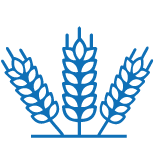
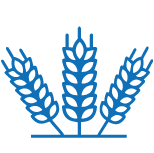
ver-4.0.2
se modifica la imagen de idgk de fondo

Changed region(s): [[0.4156, 0.2614, 0.6234, 0.7843], [0.6494, 0.3922, 0.961, 0.8105], [0.0519, 0.3922, 0.3896, 0.8105]]

diff --git a/molinosgrupokasto/style_1/gallery_5.html b/molinosgrupokasto/style_1/gallery_5.html
@@ -177,7 +177,7 @@
 											<figure>
 												<img src="../img/blank.gif" style="background-image: url('../img/gall_img/masonry/harina_4.jpg');" alt="demo" />
 
-												<a class="gallery__item__description" href="../img/gall_img/masonry/semifuerte.mp4" data-gallery="gall">
+												<a class="gallery__item__description" href="https://www.youtube.com/embed/QRkrCHG4Yso" data-gallery="gall">
 													<span class="gallery__item__title" style="transform: rotate(-90deg);">
 														<div class="video_button">
 															<i class='fas fa-play'></i>
@@ -367,7 +367,7 @@
 											<figure>
 												<img src="../img/blank.gif" style="background-image: url('../img/gall_img/masonry/harina_16.jpg');" alt="demo" />
 
-												<a class="gallery__item__description" href="../img/gall_img/masonry/harina_16.jpg" data-gallery="gall">
+												<a class="gallery__item__description" href="https://www.youtube.com/embed/CGYhMkinKvU" data-gallery="gall">
 													<span class="gallery__item__title" style="transform: rotate(-90deg);">
 														<div class="video_button">
 															<i class='fas fa-play'></i>
@@ -394,7 +394,6 @@
 									</div>
 								</div>
 								<!-- end item -->
-
 								<!-- start item -->
 								<div class="col-12 col-md-6 col-lg-6  js-isotope__item category-3">
 									<div class="gallery__item" data-x="2" data-y="1">
@@ -402,7 +401,12 @@
 											<figure>
 												<img src="../img/blank.gif" style="background-image: url('../img/gall_img/masonry/sa_18.jpg');" alt="demo" />
 
-												<a class="gallery__item__description" href="../img/gall_img/masonry/sa_18.jpg" data-gallery="gall">
+												<a class="gallery__item__description" href="https://www.youtube.com/embed/5ZqaS1Q4J8w" data-gallery="gall">
+													<span class="gallery__item__title" style="transform: rotate(-90deg);">
+														<div class="video_button">
+															<i class='fas fa-play'></i>
+														</div>
+													</span>
 												</a>
 											</figure>
 										</div>
@@ -417,7 +421,7 @@
 											<figure>
 												<img src="../img/blank.gif" style="background-image: url('../img/gall_img/masonry/harina_19.jpg');" alt="demo" />
 
-												<a class="gallery__item__description" href="../img/gall_img/masonry/harina_19.jpg" data-gallery="gall">
+												<a class="gallery__item__description" href="https://www.youtube.com/embed/Pc48w72qqBM" data-gallery="gall">
 													<span class="gallery__item__title" style="transform: rotate(-90deg);">
 														<div class="video_button">
 															<i class='fas fa-play'></i>

diff --git a/molinosgrupokasto/style_1/index.html b/molinosgrupokasto/style_1/index.html
@@ -15,7 +15,7 @@
 
 		<!-- Favicons
 		================================================== -->
-		<link rel="shortcut icon" href="http://molinosgrupokasto.com/wp-content/themes/theme1872/favicon.ico">
+		<link rel="shortcut icon" href="../img/logobal-1.png">
 		<link rel="apple-touch-icon" href="img/apple-touch-icon.png">
 		<link rel="apple-touch-icon" sizes="72x72" href="img/apple-touch-icon-72x72.png">
 		<link rel="apple-touch-icon" sizes="114x114" href="img/apple-touch-icon-114x114.png">
@@ -94,6 +94,7 @@
 						<li><a class="fontello-facebook" href="https://www.facebook.com/grupokastomolinos" target="_blank"></a></li>
 						<li><a class="fontello-instagram" href="https://www.instagram.com/grupokasto/" target="_blank"></a></li>
 						<li><a class="fontello-whatsapp" href="#" target="_blank"></a></li>
+						<li><a class="fontello-youtube-play" href="https://www.youtube.com/channel/UC70Tcn_A9v6-M3_-XnrXLcQ" target="_blank"></a></li>
 						<li class="li-btn"><a class="custom-btn primary" href="#">Mi cuenta</a></li>
 					</ul>
 				</nav>
@@ -886,7 +887,7 @@
 												<img src="../img/blank.gif" style="background-image: url('../img/home_img/inicio/pagina8.png');" alt="demo" />
 
 												<a class="gallery__item__description" href="../img/home_img/inicio/pagina8.png" data-gallery="gall">
-													<span class="gallery__item__title cyan">Blanca</span>
+													<span class="gallery__item__title cyan">La Blanca</span>
 													<span class="gallery__item__subtitle cyan">Semifuerte</span>
 												</a>
 											</figure>
@@ -981,7 +982,7 @@
 												<img src="../img/blank.gif" style="background-image: url('../img/home_img/inicio/prod-2.jpg');" alt="demo" />
 
 												<a class="gallery__item__description" href="../img/home_img/inicio/prod-2.jpg" data-gallery="gall">
-													<span class="gallery__item__title azul">bizcocho fino</span>
+													<span class="gallery__item__title azul">Bizcocho fino</span>
 													<span class="gallery__item__subtitle azul">Bakery Mix</span>
 												</a>
 											</figure>

diff --git a/molinosgrupokasto/css/style.css b/molinosgrupokasto/css/style.css
@@ -5840,7 +5840,7 @@ form.f1 button[type=submit].custom-btn.primary:not(:hover):not(:focus) {
     margin-top: -35px
   }
   .section--feature {
-    background: url(../img/IDGK_01.png) center top -15px no-repeat;
+    background: url(../img/IDGK_03.png) center top -15px no-repeat;
   }
   .feedback__author {
     float: left;
